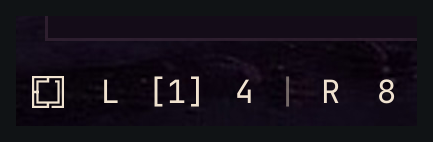
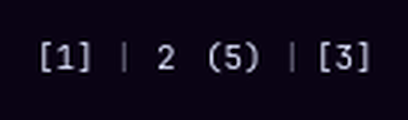
Drop the per-monitor label pill
Every group led with a monitor tag, so a three-screen bar read
1 [1] | 2 2 (5) | 3 [3]. The tag is a bare number in the same pill
shape as a workspace, so it looked like a workspace number that
happened to repeat, which is the confusion the widget exists to fix.

Drop the label item kind. The separator alone marks the boundary
between screens: [1] | 2 (5) | [3]. monitorTag() stays, but its output
now only reaches the tooltip ("screen 2 · DP-1"), never a pill, so
LRTB comes out of pillText()'s whitelist.

README example updated, and preview.png regenerated from a live
capture rather than the old two-monitor one.

Claude-Session: https://claude.ai/code/session_01Fqgx72MPEfaZtChUMGa4W4

diff --git a/BarWidget.qml b/BarWidget.qml
@@ -85,7 +85,7 @@ BarWidget {
 
   function pillText(value) {
     var text = String(value || "")
-    if (!/^[0-9LRTB|()[\]]{1,8}$/.test(text)) return ""
+    if (!/^[0-9|()[\]]{1,8}$/.test(text)) return ""
     return text
   }
 
@@ -167,7 +167,6 @@ BarWidget {
       var activeWs = monitors[i].activeWorkspace
       var activeId = activeWs ? activeWs.id : -1
       if (shown > 0) out.push({ kind: "sep" })
-      out.push({ kind: "label", text: tag, monitor: monName })
       for (var n = 0; n < ids.length; n++) {
         if (out.length >= root.maxItems) break
         out.push({
@@ -233,12 +232,8 @@ BarWidget {
 
   function tooltipFor(item) {
     if (!item) return ""
-    var isThis = item.monitor && root.thisMonitorName !== "" && item.monitor === root.thisMonitorName
-    if (item.kind === "label") {
-      var here = isThis ? "this screen · " : ""
-      return root.plain(here + root.monitorPhrase(item.text))
-    }
     if (item.kind !== "ws") return ""
+    var isThis = item.monitor && root.thisMonitorName !== "" && item.monitor === root.thisMonitorName
     var where = isThis ? "this screen" : root.monitorPhrase(item.tag)
     var conn = root.connectorName(item.monitor)
     if (conn !== "") where += " · " + conn
@@ -335,7 +330,6 @@ BarWidget {
         required property var modelData
 
         readonly property bool isSep: modelData && modelData.kind === "sep"
-        readonly property bool isLabel: modelData && modelData.kind === "label"
         readonly property bool isWs: modelData && modelData.kind === "ws"
         readonly property int workspaceId: isWs ? Number(modelData.ws) : 0
         readonly property var workspace: isWs ? root.workspaceById(workspaceId) : null
@@ -352,16 +346,15 @@ BarWidget {
         bar: root.bar
         text: {
           if (isSep) return root.pillText("|")
-          if (isLabel) return root.pillText(modelData.text)
           if (there) return root.pillText("[" + numberText + "]")
           if (here) return root.pillText("(" + numberText + ")")
           return root.pillText(numberText)
         }
         active: false
-        dimmed: isSep || (isLabel && !isThis)
-        opacity: isSep ? 0.45 : (isLabel ? 1 : (occupied || onScreen ? 1 : 0.5))
+        dimmed: isSep
+        opacity: isSep ? 0.45 : (occupied || onScreen ? 1 : 0.5)
         pressable: isWs
-        interactive: isWs || isLabel
+        interactive: isWs
         tooltipText: root.tooltipFor(modelData)
         horizontalMargin: isSep ? 2 : 6
         verticalPadding: 6

diff --git a/README.md b/README.md
@@ -5,10 +5,10 @@ The stock Omarchy bar repeats 1–5 on every screen and only marks the focused w
 This widget groups the numbers by screen:
 
 ```
-L (2) 4 | R 1 [8]
+(2) 4 | 1 [8]
 ```
 
-- **L / R** (or **T / B** if the screens are stacked) is the monitor
+- `|` separates one screen's workspaces from the next, left to right
 - `(2)` is the workspace this screen is showing, the one you are looking at
 - A plain number is another workspace on this screen
 - `[8]` is what the other screen is showing
